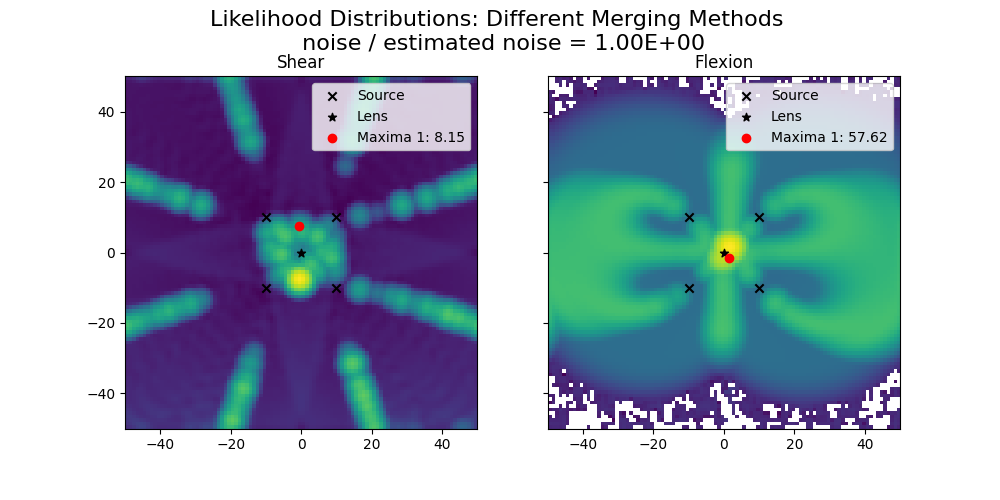
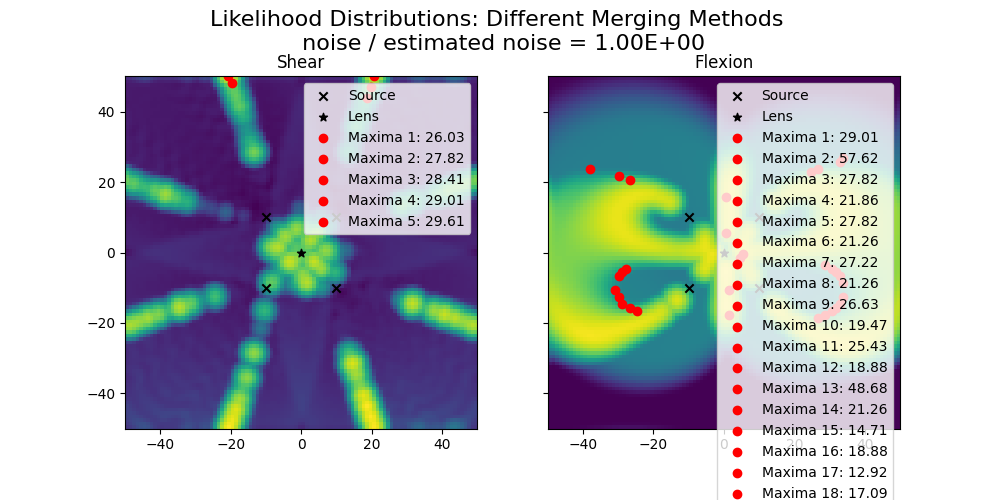
New minimizer

Changed region(s): [[0.527, 0.15, 0.899, 1.0], [0.124, 0.15, 0.496, 0.87], [0.31, 0.66, 0.465, 0.87]]

diff --git a/lensing_minimizer.py b/lensing_minimizer.py
@@ -1,0 +1,191 @@
+import numpy as np
+import matplotlib.pyplot as plt
+
+def createLenses(nlens=1,randompos=True,xmax=10):
+    #For now, fix theta_E at 1
+    tearr = np.ones(nlens)
+    if randompos == True:
+        xlarr = -xmax + 2*xmax*np.random.random(nlens)
+        ylarr = -xmax + 2*xmax*np.random.random(nlens)
+    else: #Uniformly spaced lenses
+        xlarr = -xmax + 2*xmax*(np.arange(nlens)+0.5)/(nlens)
+        ylarr = np.zeros(nlens)
+    return xlarr, ylarr, tearr
+
+def createSources(xlarr,ylarr,tearr,ns=1,randompos=True,sigf=0.1,sigs=0.1,xmax=5):
+    if randompos == True:
+        x = -xmax + 2*xmax*np.random.random(ns)
+        y = -xmax + 2*xmax*np.random.random(ns)
+    else: #Uniformly spaced sources
+        x = -xmax + 2*xmax*np.random.random(ns) #Let the sources be randomly distributed in x only
+        y = np.zeros(ns)
+
+    #Apply the lens 
+    e1data = np.zeros(ns)
+    e2data = np.zeros(ns)
+    f1data = np.zeros(ns)
+    f2data = np.zeros(ns)
+
+    for i in range(ns):
+        e1data[i],e2data[i],f1data[i],f2data[i] = lens(x[i],y[i],xlarr,ylarr,tearr)
+        e1data+=sigs*np.random.normal(ns) 
+        f1data+=sigf*np.random.normal(ns)
+        if randompos == True:
+            e2data+=sigs*np.random.normal(ns)
+            f2data+=sigf*np.random.normal(ns)
+    return x,y,e1data,e2data,f1data,f2data
+
+def lens(x,y,xlarr,ylarr,tearr):
+    dx = x-xlarr
+    dy = y-ylarr
+    r = np.sqrt(dx**2+dy**2)
+    cosphi = dx/r
+    sinphi = dy/r
+    cos2phi = cosphi*cosphi-sinphi*sinphi
+    sin2phi = 2*cosphi*sinphi
+
+    f1 = np.sum(-dx*tearr/(2*r*r*r))
+    f2 = np.sum(-dy*tearr/(2*r*r*r))
+
+    e1 = np.sum(-tearr/r*cos2phi)
+    e2 = np.sum(-tearr/r*sin2phi)
+
+    return e1,e2,f1,f2
+
+def chi2(x,y,e1data,e2data,f1data,f2data,xltest,yltest,tetest,sigf,sigs,fwgt=1.0,swgt=1.0):
+    #Note - this is a simplified model, without penalties from bayesian priors
+
+    chi2val = 0.0
+    for i in range(len(x)):
+        e1,e2,f1,f2 = lens(x[i],y[i],xltest,yltest,tetest)
+        chi2val += (fwgt*(f1data[i]-f1)**2)/(sigf**2) + (fwgt*(f2data[i]-f2)**2)/(sigf**2) + (swgt*(e1data[i]-e1)**2)/(sigs**2) + (swgt*(e2data[i]-e2)**2)/(sigs**2)
+
+    return chi2val
+
+def minChi2(x,y,e1data,e2data,f1data,f2data,xlstart,ylstart,testart,sigf,sigs):
+    chi2best = chi2(x,y,e1data,e2data,f1data,f2data,xlstart,ylstart,testart,sigf,sigs)
+    xlbest = xlstart
+    ylbest = ylstart
+    tebest = testart
+    nlens = len(xlbest)
+    npars = 3*nlens
+    dpar = 1e-6
+
+    niter = 20
+    alpha0 = 0.8
+    alpha = alpha0
+
+    for iter in range(niter):
+        gradpar = np.zeros(npars)
+        for ipar in range(npars):
+            xltest = xlbest.copy()
+            yltest = ylbest.copy()
+            tetest = tebest.copy()
+            if int(ipar/nlens) == 0:
+                xltest[ipar] += dpar
+            elif int(ipar/nlens) == 1:
+                yltest[ipar-nlens] += dpar
+            elif int(ipar/nlens) == 2:
+                tetest[ipar-2*nlens] += dpar
+            gradpar[ipar] = (chi2(x,y,e1data,e2data,f1data,f2data,xltest,yltest,tetest,sigf,sigs)-chi2best)/dpar
+        deltapar = -alpha*gradpar*chi2best / np.sum(gradpar*gradpar)
+        xltest = xlbest.copy() + deltapar[0:nlens]
+        yltest = ylbest.copy() + deltapar[nlens:2*nlens]
+        tetest = tebest.copy() + deltapar[2*nlens:3*nlens]
+        chi2test = chi2(x,y,e1data,e2data,f1data,f2data,xltest,yltest,tetest,sigf,sigs)
+        if chi2test < chi2best:
+            xlbest = xltest.copy()
+            ylbest = yltest.copy()
+            tebest = tetest.copy()
+            chi2best = chi2test
+        else:
+            print('Step too large, reducing step size')
+            alpha = 0.8*alpha
+    return xlbest,ylbest,tebest,chi2best
+
+
+def chi2plot(x,y,e1data,e2data,f1data,f2data,xmax=2,nx=100):
+    #Assume theta_E = 1, minimize chi2 with respect to x and y
+    dx = 2*xmax/nx
+    chi2_all = np.zeros((nx,nx))
+    chi2_flex = np.zeros((nx,nx))
+    chi2_shear = np.zeros((nx,nx))
+    for i in range(nx):
+        x1=-xmax+dx*(i+0.5)
+        for j in range(nx):
+            y1=-xmax+dx*(j+0.5)
+            chi2_all[i,j] = chi2(x,y,e1data,e2data,f1data,f2data,np.asarray([x1]),np.asarray([y1]),np.asarray([1.0]),sigf,sigs)
+            chi2_flex[i,j] = chi2(x,y,e1data,e2data,f1data,f2data,np.asarray([x1]),np.asarray([y1]),np.asarray([0.0]),sigf,sigs,swgt=0.0)
+            chi2_shear[i,j] = chi2(x,y,e1data,e2data,f1data,f2data,np.asarray([x1]),np.asarray([y1]),np.asarray([1.0]),sigf,sigs,fwgt=0.0)
+    
+    myval = np.exp(-chi2_all.T)
+    plt.imshow(myval,interpolation='none',origin='lower',extent=[-xmax,xmax,-xmax,xmax])
+    plt.plot(x,y,'x','o',color='red')
+    plt.savefig('chi2_all.png')
+    plt.close()
+
+    plt.imshow(np.log(chi2_flex.T),interpolation='none',origin='lower',extent=[-xmax,xmax,-xmax,xmax])
+    plt.plot(x,y,'x','o',color='red')
+    plt.savefig('chi2_flex.png')
+    plt.close()
+
+    plt.imshow(np.log(chi2_shear.T),interpolation='none',origin='lower',extent=[-xmax,xmax,-xmax,xmax])
+    plt.plot(x,y,'x','o',color='red')
+    plt.savefig('chi2_shear.png')
+    plt.close()
+
+
+def chi2plot1d(x,y,e1data,e2data,f1data,f2data,xmax=2,nx=100):
+    #Assume theta_E = 1, minimize chi2 with respect to x and y
+    dx = 2*xmax/nx
+    chi2_all = np.zeros((nx,nx))
+    chi2_flex = np.zeros((nx,nx))
+    chi2_shear = np.zeros((nx,nx))
+    xarr=[]
+    for i in range(nx):
+        x1=-xmax+dx*(i+0.5)
+        xarr.append(x1)
+        y1=0.0
+        chi2_all[i] = chi2(x,y,e1data,e2data,f1data,f2data,np.asarray([x1]),np.asarray([y1]),np.asarray([1.0]),sigf,sigs)
+        chi2_flex[i] = chi2(x,y,e1data,e2data,f1data,f2data,np.asarray([x1]),np.asarray([y1]),np.asarray([1.0]),sigf,sigs,swgt=0.0)
+        chi2_shear[i] = chi2(x,y,e1data,e2data,f1data,f2data,np.asarray([x1]),np.asarray([y1]),np.asarray([1.0]),sigf,sigs,fwgt=0.0)
+    
+    x0 = x*0.0
+    plt.plot(x,x0,'o',color='red')
+    plt.plot(xarr,np.log(chi2_all),'-',color='black')
+    plt.savefig('Images/chi2_all_1d.png')
+    plt.close()
+
+    plt.plot(x,x0,'o',color='red')
+    plt.plot(xarr,np.log(chi2_flex),'-',color='black')
+    plt.savefig('Images/chi2_flex_1d.png')
+    plt.close()
+
+    plt.plot(x,x0,'o',color='red')
+    plt.plot(xarr,np.log(chi2_shear),'-',color='black')
+    plt.savefig('Images/chi2_shear_1d.png')
+    plt.close()
+
+
+
+#Set up configuration
+nlens = 1
+xmax = 2.
+xlarr, ylarr, tearr = createLenses(nlens=nlens,randompos=False,xmax=xmax)
+
+#Set up sources
+ns = 2
+sigf = 0.01
+sigs = 0.1
+x,y,e1data,e2data,f1data,f2data = createSources(xlarr,ylarr,tearr,ns,randompos=False,sigf=sigf,sigs=sigs,xmax=xmax)
+
+#Make a plot in a 2x2 range showing chi^2
+
+chi2plot1d(x,y,e1data,e2data,f1data,f2data,xmax=6,nx=1000)
+
+#Now minimize chi^2
+xlstart = -xmax+2*xmax*np.random.random(nlens)
+ylstart = -xmax+2*xmax*np.random.random(nlens)
+testart = np.ones(nlens)
+xlbest,ylbest,tebest,chi2best = minChi2(x,y,e1data,e2data,f1data,f2data,xlstart,ylstart,testart,sigf,sigs)
+print('Best fit parameters: ',xlbest,ylbest,tebest,chi2best)

diff --git a/tests.py b/tests.py
@@ -446,9 +446,6 @@ def minimization_test():
 
 
 if __name__ == '__main__':
-    minimization_test()
-    raise SystemExit
-
     start = time.time()
     size = 50
     res = size*2
